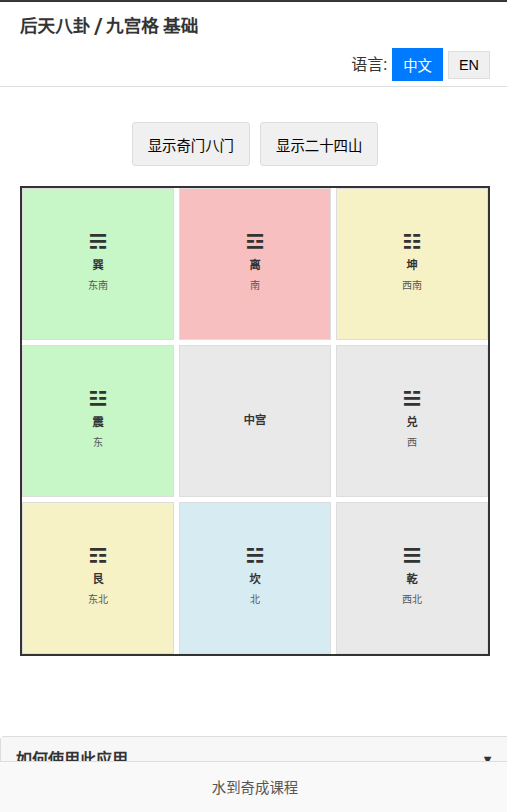
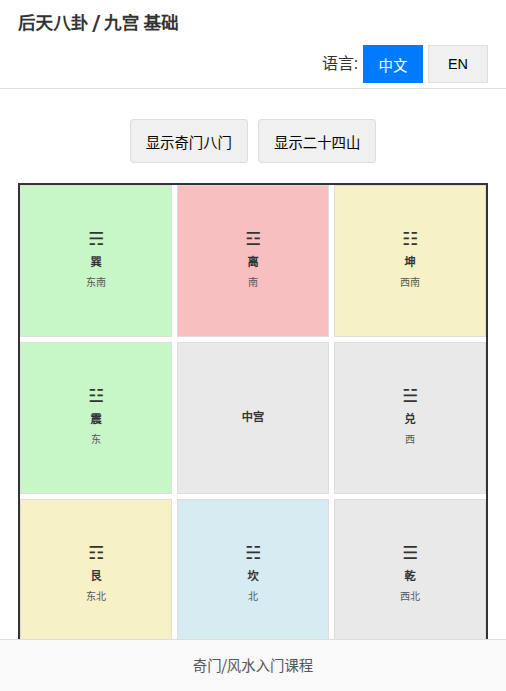
doc: updated readme

diff --git a/README.md b/README.md
@@ -1,18 +1,18 @@
-# qishui - 水到奇成 Prerequisites Learning App
+# 奇门/风水入门 (Qimen/FengShui Foundations) App
 
 [![Deploy to GitHub Pages](https://github.com/limcheekin/qishui/actions/workflows/deploy.yaml/badge.svg)](https://github.com/limcheekin/qishui/actions/workflows/deploy.yaml)
 
-An interactive web application designed to help users learn the foundational concepts of Chinese metaphysics. This project serves as a prerequisite learning tool for the "水到奇成" (Shuǐ Dào Qí Chéng – "Success comes when conditions are ripe") course.
+An interactive web application designed to help users learn the foundational concepts of Chinese metaphysics. This project serves as a learning tool for the Qimen / FengShui Foundations course.
 
 **Live Demos:**
-*   **Main App (Ba Gua / Qimen Foundations):** [https://limcheekin.github.io/qishui/](https://limcheekin.github.io/qishui/)
+*   **Main App (Qimen / FengShui Foundations):** [https://limcheekin.github.io/qishui/](https://limcheekin.github.io/qishui/)
 *   **Qimen Flashcards:** [https://limcheekin.github.io/qishui/flashcard/qimen.html](https://limcheekin.github.io/qishui/flashcard/qimen.html)
 
 ## Table of Contents
 
 *   [Overview](#overview)
 *   [Key Features](#key-features)
-    *   [Main Application: Ba Gua / Qimen Foundations](#main-application-ba-gua--qimen-foundations)
+    *   [Main Application: Qimen / FengShui Foundations](#main-application-ba-gua--qimen-foundations)
     *   [Qimen Flashcard Application](#qimen-flashcard-application)
 *   [Screenshots](#screenshots)
 *   [Technology Stack](#technology-stack)
@@ -24,10 +24,10 @@ An interactive web application designed to help users learn the foundational con
 
 ## Overview
 
-The **qishui** project encompasses two main web-based learning tools:
+The project encompasses two main web-based learning tools:
 
-1.  **Ba Gua / Qimen Foundations App (`index.html`):** An interactive application focusing on:
-    *   后天八卦 (Hòutiān Bāguà - Later Heaven Ba Gua) / 九宫格 (Jiǔ Gōng Gé - Nine Palaces Grid)
+1.  **Qimen / FengShui Foundations App (`index.html`):** An interactive application focusing on:
+    *   后天八卦 (Hòutiān Bāguà - Later Heaven Ba Gua) / 九宫 (Jiǔ Gōng Gé - Nine Palaces)
     *   五行 (Wǔ Xíng - Five Elements) theory and interactions.
     *   Basic concepts of 奇门遁甲 (Qímén Dùnjiǎ), including the Eight Gates (八门 - Bā Mén) and their home palaces, and the Twenty-Four Mountains (二十四山 - Èrshísì Shān).
     *   This main application was created based on concepts introduced in the YouTube video [《水到奇成》说明会](https://www.youtube.com/watch?v=2FykEOX-dqU) to prepare the author for attending the offline class on 17 May 2025.
@@ -37,7 +37,7 @@ Both applications are designed to be intuitive, responsive, and bilingual (Simpl
 
 ## Key Features
 
-### Main Application: Ba Gua / Qimen Foundations (`index.html`)
+### Main Application: Qimen / FengShui Foundations (`index.html`)
 
 *   **Interactive Ba Gua Grid:** A visual 3x3 grid representing the Houtian Ba Gua / Jiu Gong Ge. Users can click on each of the 8 outer palaces to view detailed information.
 *   **Qimen Eight Gates Overlay:** Toggleable overlay to display the original Eight Gates (八门) within their respective Ba Gua palaces.
@@ -55,7 +55,7 @@ Both applications are designed to be intuitive, responsive, and bilingual (Simpl
     *   About this App & Course Next Steps
     *   Glossary of Terms
 *   **Responsive Design:** Adapts to various screen sizes for optimal viewing on desktop, tablet, and mobile devices.
-*   **SVG Diagrams:** Dynamically generated SVG visuals for Wu Xing cycles and Luopan subdivision for better understanding.
+*   **SVG Diagrams:** Dynamically generated SVG visuals for Wu Xing (Five Elements) cycles and Luopan subdivision for better understanding.
 *   **Accessibility:** Designed with keyboard navigation and ARIA attributes for improved accessibility.
 
 ### Qimen Flashcard Application (`flashcard/qimen.html`)
@@ -84,7 +84,7 @@ Both applications are designed to be intuitive, responsive, and bilingual (Simpl
 ```
 └── qishui/
     ├── README.md               # This file
-    ├── index.html              # Main Ba Gua / Qimen Foundations application
+    ├── index.html              # Main Qimen / FengShui Foundations application
     ├── LICENSE                 # MIT License
     ├── spec.md                 # Specifications for index.html
     ├── flashcard/
@@ -99,7 +99,7 @@ Both applications are designed to be intuitive, responsive, and bilingual (Simpl
 
 ### Accessing the Applications
 
-*   **Main App (Ba Gua / Qimen Foundations):** Open [index.html](https://limcheekin.github.io/qishui/)
+*   **Main App (Qimen / FengShui Foundations):** Open [index.html](https://limcheekin.github.io/qishui/)
 *   **Qimen Flashcards:** Open [flashcard/qimen.html](https://limcheekin.github.io/qishui/flashcard/qimen.html)
 
 ### Main Application (`index.html`)
@@ -111,7 +111,7 @@ Both applications are designed to be intuitive, responsive, and bilingual (Simpl
     *   Click "Show Qimen Gates" (显示奇门八门) to overlay Qimen Gate information on the grid and in the info panel. Click again to hide.
     *   Click "Show 24 Mountains" (显示二十四山) to subdivide palaces into 24 Mountain segments. Click on a segment for details. Click again to hide.
     *   Both overlays can be active simultaneously.
-5.  **Static Information:** Expand the sections below the grid (e.g., "How to Use This App", "About Wu Xing") to read more.
+5.  **Static Information:** Expand the sections below the grid (e.g., "How to Use This App", "About Wu Xing (Five Elements)") to read more.
 
 ### Qimen Flashcard Application (`flashcard/qimen.html`)
 
